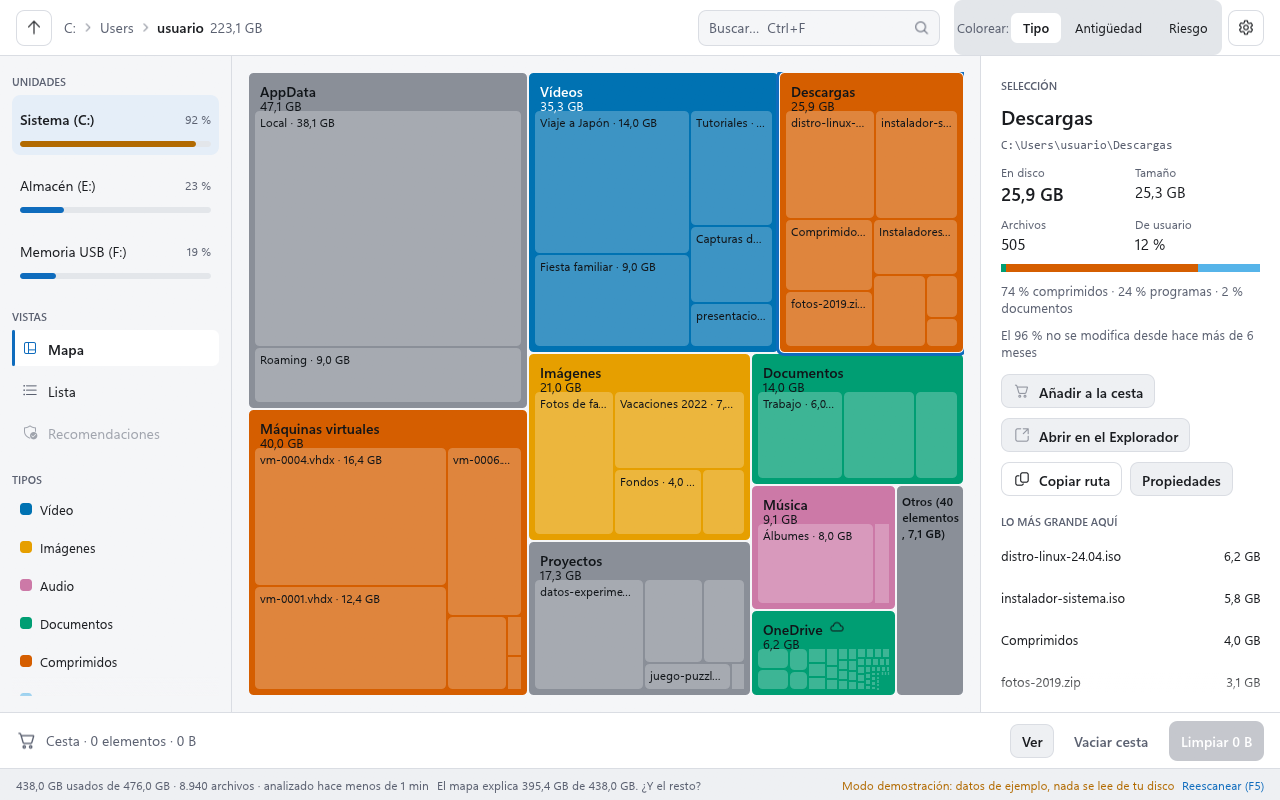
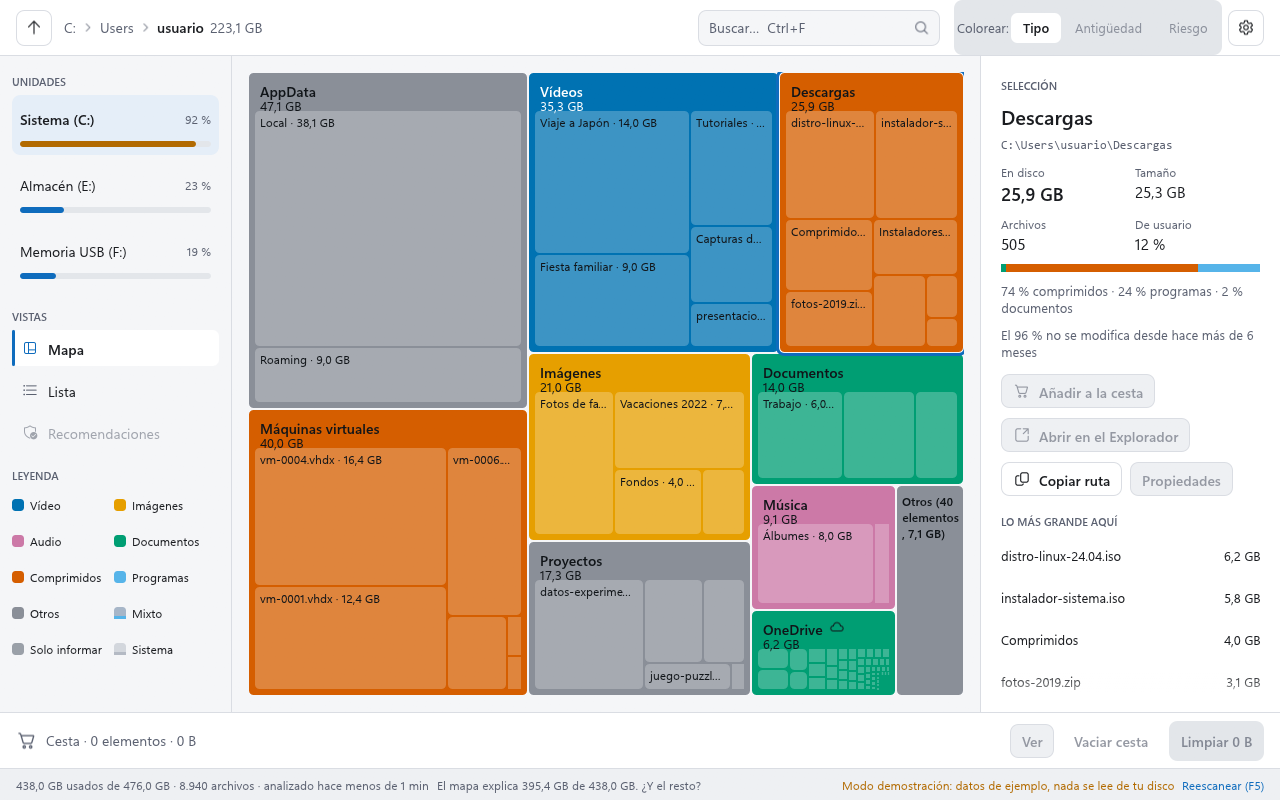
docs: capturas regeneradas con --demo y registradas con su SHA-256
mapa-claro.png y mapa-oscuro.png salen de `tesela --demo` (feature capture) con
la interfaz actual (leyenda compacta, foco visible, etc.). docs/img/README.md pasa
al formato anclado `- <nombre>.png | sha256: <hash> | <orden con --demo>` que
exige privacy-check.

diff --git a/docs/img/README.md b/docs/img/README.md
@@ -3,13 +3,17 @@
 Todas las imágenes de esta carpeta salen **únicamente del modo `--demo`** de Tesela: un árbol sintético y determinista, con
 carpetas de nombres inventados y unidades ficticias, sin leer nada del disco. Son capturas de la **ventana de la aplicación**
 (el framebuffer de egui, no de la pantalla: no sale nada del escritorio) guardadas como PNG sin metadatos con la feature
-`capture` de `tesela-app`.
+`capture` de `tesela-app`. La opción `--screenshot` solo se admite junto a `--demo`.
 
-`scripts/privacy-check.ps1` solo admite aquí `docs/img/<nombre>.png` (minúsculas, dígitos y guiones) que sean PNG sin
-fragmentos de metadatos, de menos de 2 MiB, y exige que cada archivo tenga abajo una línea con su nombre y la orden `--demo`
-que lo genera.
+`scripts/privacy-check.ps1` solo admite aquí `docs/img/<nombre>.png` (minúsculas, dígitos y guiones) que sean PNG de menos de
+2 MiB con una lista cerrada de fragmentos y longitudes (sin metadatos), y exige que **este archivo** tenga, para cada imagen,
+una línea con exactamente esta forma:
 
-Para regenerarlas (desde la raíz del repositorio):
+    - <nombre>.png | sha256: <SHA-256 de sus bytes> | <orden con --demo que la genera>
 
-- mapa-claro.png: `cargo run -p tesela-app --features capture -- --demo --screen map --open Users/usuario --select Descargas --theme light --lang es --size 1280x800 --screenshot docs/img/mapa-claro.png`
-- mapa-oscuro.png: `cargo run -p tesela-app --features capture -- --demo --screen map --theme dark --lang es --size 1280x800 --screenshot docs/img/mapa-oscuro.png`
+El hash va con la imagen: si cambia un solo byte hay que volver a registrarla (`sha256sum docs/img/<nombre>.png`).
+
+## Imágenes registradas
+
+- mapa-claro.png | sha256: adf4969582fbb559236a8f910d9eb967e8460f655280a148c2860a45c8711938 | `cargo run -p tesela-app --features capture -- --demo --screen map --open Users/usuario --select Descargas --theme light --lang es --size 1280x800 --screenshot docs/img/mapa-claro.png`
+- mapa-oscuro.png | sha256: a0609c142a2b8391cada1795b200991e9f854b24a5c9b156aed3fd1d747f43b0 | `cargo run -p tesela-app --features capture -- --demo --screen map --theme dark --lang es --size 1280x800 --screenshot docs/img/mapa-oscuro.png`
